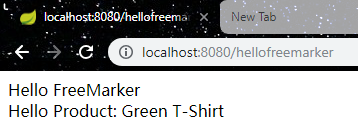
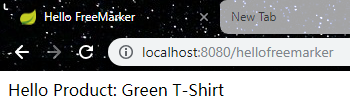
Updated some post

diff --git a/content/post/server-side-programming/java/simple-but-profound/spring-stack-developer/4. Template Engine - Apache FreeMarker.md b/content/post/server-side-programming/java/simple-but-profound/spring-stack-developer/4. Template Engine - Apache FreeMarker.md
@@ -44,9 +44,9 @@ FreeMarker is a java-based template engine, commonly used to generate dynamic mv
 
 <!--more-->
 
-# Add FreeMarker Dpendency
+# Add FreeMarker Dependency
 
-Add FreeMarker Dpendency into pom.xml:
+Add FreeMarker dependency into pom.xml:
 
 ```xml
 <dependency>
@@ -84,7 +84,9 @@ Copy and paste the following content into hello-freemarker.ftl:
 ```html
 <!DOCTYPE html>
 <html>
-    <header>Hello FreeMarker</header>
+    <head>
+      <title>Hello FreeMarker</title>
+    </head>
     <body>Hello Product: ${product.name}</body>
 </html>
 ```
